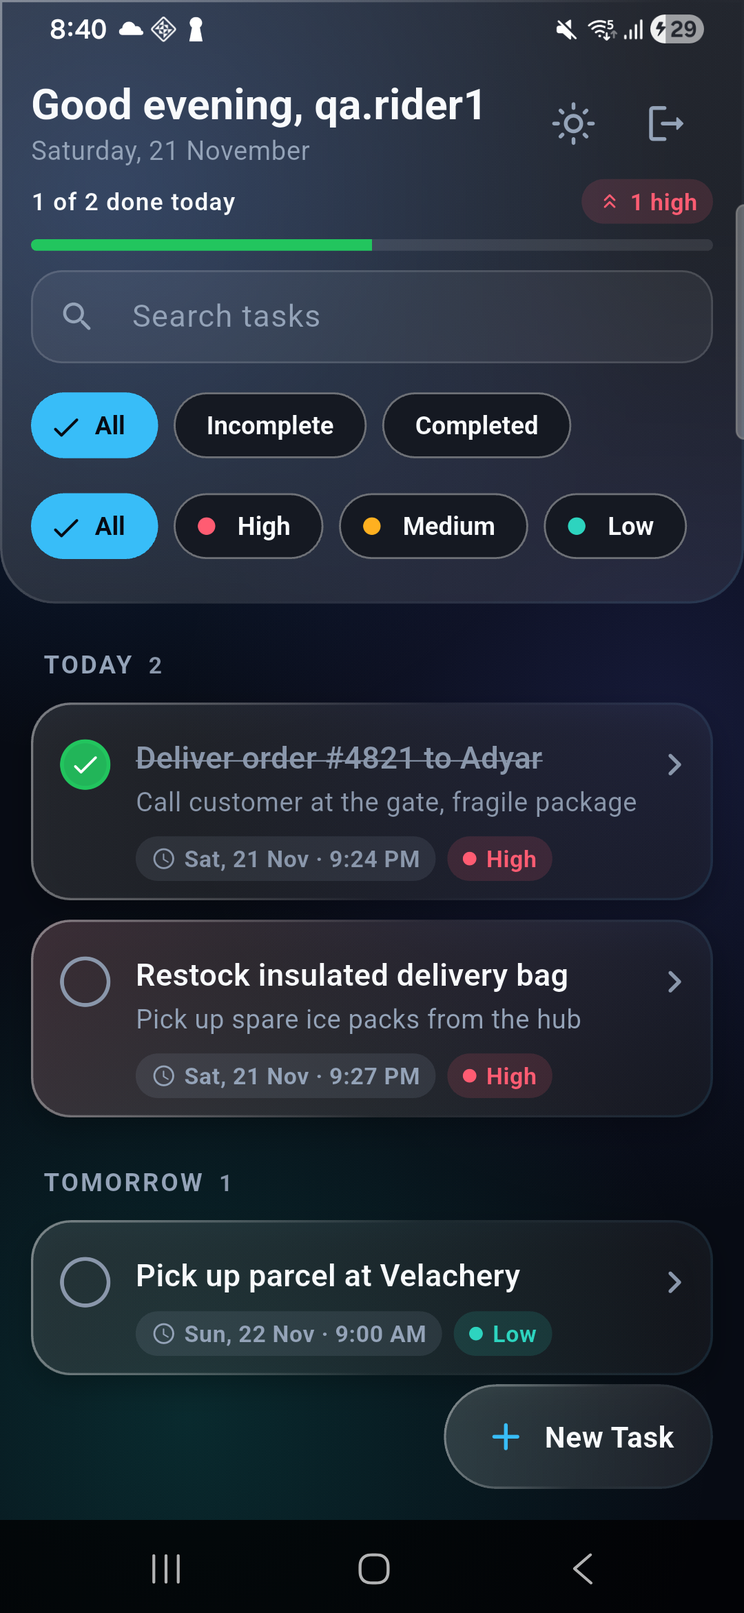
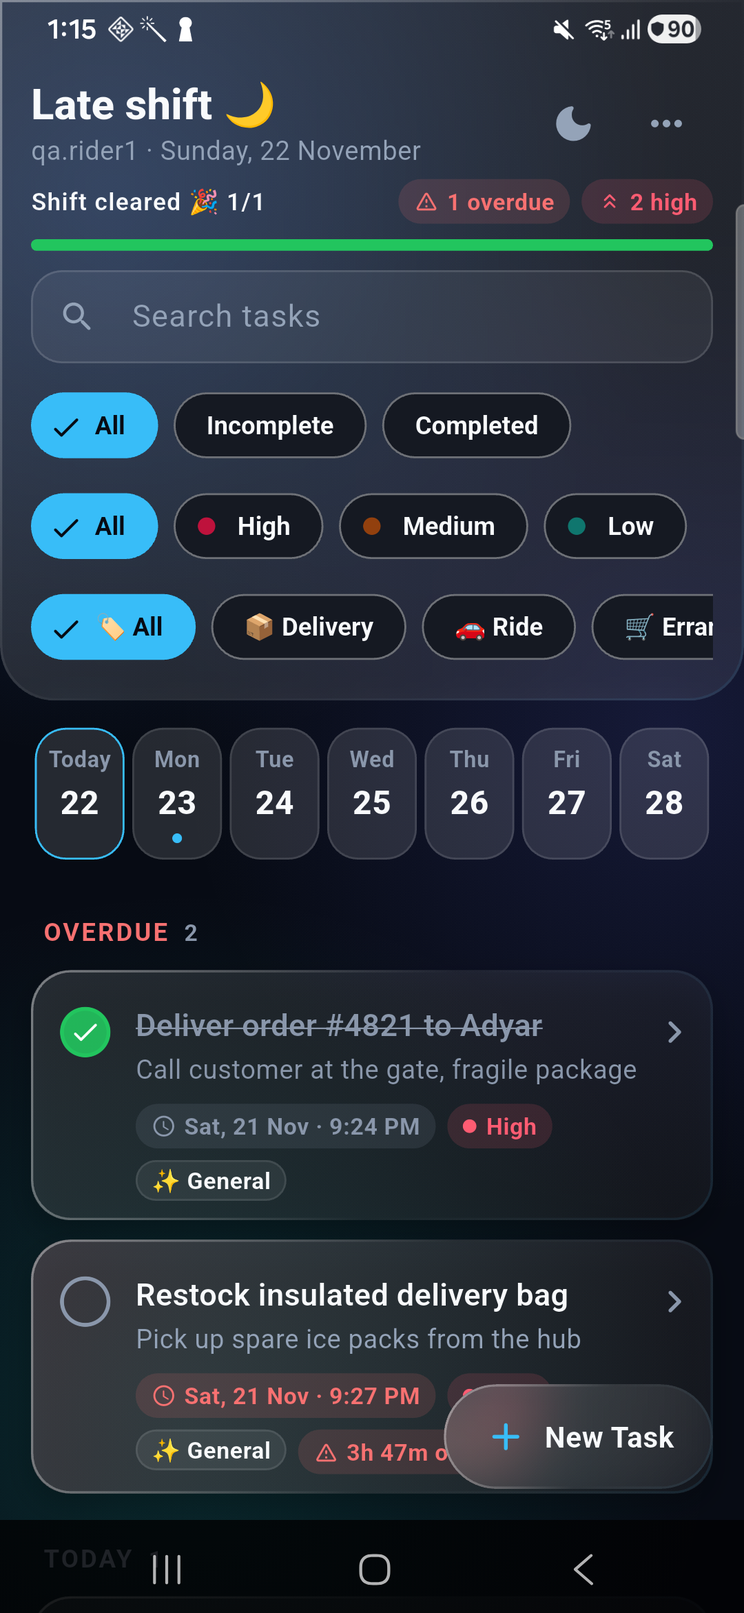
feat(auth): native Google sign-in; docs: v1.1.0 screenshots, README and release notes
- Google sign-in via google_sign_in (Credential Manager) + Firebase credential,
  replacing the browser redirect that fails under Chrome storage partitioning
- priority chip colours resolve in a theme-aware context (no stale colours)
- README and screenshots updated for v1.1.0 features and device QA

diff --git a/lib/features/auth/data/repositories/firebase_auth_repository.dart b/lib/features/auth/data/repositories/firebase_auth_repository.dart
@@ -1,11 +1,11 @@
 import 'package:firebase_auth/firebase_auth.dart';
 import 'package:flutter/foundation.dart' show debugPrint;
-import 'package:flutter/services.dart' show PlatformException;
-
+import 'package:gigflow/core/config/google_oauth.dart';
 import 'package:gigflow/core/error/failures.dart';
 import 'package:gigflow/core/error/firebase_error_mapper.dart';
 import 'package:gigflow/features/auth/domain/entities/app_user.dart';
 import 'package:gigflow/features/auth/domain/repositories/auth_repository.dart';
+import 'package:google_sign_in/google_sign_in.dart';
 
 class FirebaseAuthRepository implements AuthRepository {
   FirebaseAuthRepository(this._auth);
@@ -55,35 +55,60 @@ class FirebaseAuthRepository implements AuthRepository {
     }
   }
 
+  bool _googleReady = false;
+
+  /// Native Google sign-in (Android Credential Manager / iOS GIS) -> ID token
+  /// -> Firebase credential. Avoids the browser redirect flow, which breaks
+  /// under Chrome storage partitioning ("missing initial state").
   @override
   Future<AppUser?> signInWithGoogle() async {
     try {
-      final provider = GoogleAuthProvider()
-        ..addScope('email')
-        ..setCustomParameters({'prompt': 'select_account'});
-      return _toUser((await _auth.signInWithProvider(provider)).user);
+      final google = GoogleSignIn.instance;
+      if (!_googleReady) {
+        await google.initialize(
+          clientId: GoogleOAuth.platformClientId,
+          serverClientId: GoogleOAuth.webClientId,
+        );
+        _googleReady = true;
+      }
+      final account = await google.authenticate();
+      final idToken = account.authentication.idToken;
+      if (idToken == null) {
+        throw const AuthFailure(FirebaseErrorMapper.googleUnavailable);
+      }
+      final credential = GoogleAuthProvider.credential(idToken: idToken);
+      return _toUser((await _auth.signInWithCredential(credential)).user);
+    } on GoogleSignInException catch (e) {
+      debugPrint('GigFlow Google sign-in failed: ${e.code.name}');
+      if (e.code == GoogleSignInExceptionCode.canceled ||
+          e.code == GoogleSignInExceptionCode.interrupted) {
+        return null;
+      }
+      throw const AuthFailure(FirebaseErrorMapper.googleUnavailable);
     } on FirebaseAuthException catch (e) {
-      debugPrint('GigFlow Google sign-in failed: ${e.code}');
-      if (FirebaseErrorMapper.isUserCancellation(e.code)) return null;
+      debugPrint('GigFlow Google credential rejected: ${e.code}');
       throw AuthFailure(
         FirebaseErrorMapper.mapAuthErrorCode(e.code),
         code: e.code,
       );
-    } on PlatformException catch (e) {
-      debugPrint('GigFlow Google sign-in platform error: ${e.code}');
-      if (FirebaseErrorMapper.isUserCancellation(e.code)) return null;
-      throw AuthFailure(
-        FirebaseErrorMapper.mapAuthErrorCode(e.code),
-        code: e.code,
-      );
+    } on AuthFailure {
+      rethrow;
     } catch (e) {
       debugPrint('GigFlow Google sign-in unexpected error: ${e.runtimeType}');
-      throw const AuthFailure(FirebaseErrorMapper.genericAuth);
+      throw const AuthFailure(FirebaseErrorMapper.googleUnavailable);
     }
   }
 
   @override
-  Future<void> signOut() => _auth.signOut();
+  Future<void> signOut() async {
+    await _auth.signOut();
+    // Also forget the Google session so the account picker shows next time.
+    if (_googleReady) {
+      try {
+        await GoogleSignIn.instance.signOut();
+      } catch (_) {}
+    }
+  }
 
   Future<AppUser> _run(Future<UserCredential> Function() call) async {
     try {

diff --git a/lib/features/tasks/presentation/widgets/dashboard_header_delegate.dart b/lib/features/tasks/presentation/widgets/dashboard_header_delegate.dart
@@ -137,15 +137,20 @@ class DashboardHeaderDelegate extends SliverPersistentHeaderDelegate {
                       },
                     ),
                     for (final p in TaskPriority.values)
-                      SelectableChip(
+                      // Builder: resolve the colour in a context that
+                      // depends on Theme, so it updates when the theme
+                      // animates (delegate-level values would go stale).
+                      Builder(
                         key: ValueKey('priority-${p.name}'),
-                        label: p.label,
-                        dotColor: p.colorOf(context),
-                        selected: filter.priority == p,
-                        onSelected: () {
-                          HapticFeedback.selectionClick();
-                          onPriority(p);
-                        },
+                        builder: (context) => SelectableChip(
+                          label: p.label,
+                          dotColor: p.colorOf(context),
+                          selected: filter.priority == p,
+                          onSelected: () {
+                            HapticFeedback.selectionClick();
+                            onPriority(p);
+                          },
+                        ),
                       ),
                   ],
                 ),

diff --git a/lib/core/config/google_oauth.dart b/lib/core/config/google_oauth.dart
@@ -1,0 +1,18 @@
+import 'package:flutter/foundation.dart';
+
+/// Public OAuth client identifiers from the Firebase config files
+/// (android/app/google-services.json, ios/Runner/GoogleService-Info.plist).
+/// These are not secrets; access is enforced by Firebase.
+abstract final class GoogleOAuth {
+  /// "Web client" (type 3): required by Android Credential Manager to mint
+  /// an ID token that Firebase Auth accepts.
+  static const webClientId =
+      '595724452129-bpso55g5l7rcpl0t96o60brlri927vj1.apps.googleusercontent.com';
+
+  /// iOS client (type 2).
+  static const iosClientId =
+      '595724452129-l3ds198uauk1ese6i4r8pb2h108a3uab.apps.googleusercontent.com';
+
+  static String? get platformClientId =>
+      defaultTargetPlatform == TargetPlatform.iOS ? iosClientId : null;
+}

diff --git a/lib/core/error/firebase_error_mapper.dart b/lib/core/error/firebase_error_mapper.dart
@@ -1,5 +1,7 @@
 abstract final class FirebaseErrorMapper {
   static const genericAuth = 'Authentication failed. Please try again.';
+  static const googleUnavailable =
+      "Google sign-in couldn't finish. Check your connection or use email and password.";
   static const badCredentials =
       'Incorrect email or password. Please check your credentials and try again.';
 

diff --git a/README.md b/README.md
@@ -1,38 +1,51 @@
 # GigFlow — Task Management for Gig Workers
 
-An offline-first Flutter task manager for delivery riders, rideshare drivers and shift freelancers. Built for the **Whatbytes Flutter Developer Intern** assignment with Firebase Authentication, Cloud Firestore (with local offline persistence), strict earliest-to-latest due-date sorting, priority + status filtering, and a performance-engineered **Liquid Glass** UI.
+An offline-first Flutter task manager for delivery riders, rideshare drivers and shift freelancers. Built for the **Whatbytes Flutter Developer Intern** assignment with Firebase Authentication (email/password + Google), Cloud Firestore with local offline persistence, strict earliest-to-latest due-date sorting, priority/status/category filtering, and a performance-engineered **Liquid Glass** UI.
 
-- **Android Release APK:** see the [GitHub Releases](../../releases) page (`gigflow-v1.0.0-universal.apk`)
-- **Walkthrough video:** _add link here_
+- **Android APK:** [GitHub Releases](../../releases/latest) → `gigflow-v1.1.0-universal.apk`
+- **Walkthrough video:** _optional, add link here_
 
-## Screenshots (release build, Samsung Galaxy SM-E346B, Android 16)
+## Screenshots (release build on a Samsung Galaxy SM-E346B, Android 16)
 
-| Login | Dashboard (dark) | Priority filter | Create / edit task | Dashboard (light) |
+| Onboarding | Login | Dashboard | Lavender theme |
+| :---: | :---: | :---: | :---: |
+| <img src="docs/screenshots/onboarding.png" width="190"> | <img src="docs/screenshots/login.png" width="190"> | <img src="docs/screenshots/dashboard.png" width="190"> | <img src="docs/screenshots/dashboard_lavender.png" width="190"> |
+
+| Create / edit task | Week strip + day filter | Category filter | Shift cleared 🎉 | Profile |
 | :---: | :---: | :---: | :---: | :---: |
-| <img src="docs/screenshots/login.png" width="180"> | <img src="docs/screenshots/dashboard.png" width="180"> | <img src="docs/screenshots/filters.png" width="180"> | <img src="docs/screenshots/editor.png" width="180"> | <img src="docs/screenshots/dashboard_light.png" width="180"> |
+| <img src="docs/screenshots/editor.png" width="150"> | <img src="docs/screenshots/week_strip.png" width="150"> | <img src="docs/screenshots/filters.png" width="150"> | <img src="docs/screenshots/celebration.png" width="150"> | <img src="docs/screenshots/profile.png" width="150"> |
 
 ---
 
 ## Features
 
-| Area | What you get |
+### Assignment requirements
+| Requirement | How GigFlow does it |
 |---|---|
-| **Auth** | Email/password register & login, persistent session (auto-login on relaunch), logout with confirmation, clear human-readable errors for every Firebase code (`invalid-credential`, `wrong-password`, `user-not-found`, `email-already-in-use`, `weak-password`, `invalid-email`, `too-many-requests`, `network-request-failed`, …), password visibility toggle, trimmed email, double-submit protection |
-| **Tasks** | Create, view, edit, delete (swipe or from editor) with 4-second **Undo**, one-tap complete/incomplete with haptics. Fields: `title`, `description`, `dueDate`, `priority` (low/medium/high), `isCompleted` |
-| **Offline** | Firestore disk persistence (`CACHE_SIZE_UNLIMITED`). Everything works in Airplane Mode and syncs automatically on reconnect; an **Offline / Syncing** indicator shows the real sync state |
-| **Filter & sort** | Priority (All/High/Medium/Low) × Status (All/Incomplete/Completed) × instant search; always sorted **earliest → latest** (ties: high priority first, then creation time). Grouped into OVERDUE/EARLIER, TODAY, TOMORROW, UPCOMING without ever breaking global order |
-| **Shift dashboard** | "X of Y done today" progress bar, overdue and open-high-priority counters, overdue badges per task |
-| **Quick due presets** | `+1 hr`, `Today 6 PM`, `Tomorrow 9 AM`, or a custom date/time (Cupertino picker on iOS, Material on Android) |
-| **UI** | Material 3, Dark "Obsidian Glass" and Light "Daylight Frost" themes (persisted), WCAG AA contrast, 48dp touch targets, safe areas, keyboard-safe sheets, responsive up to tablets (640px content column) |
+| **Register / login (Firebase email + password)** | Persistent session, logout with confirmation, password visibility toggle, trimmed email, double-submit protection |
+| **Error messages for invalid credentials** | Every Firebase code mapped to plain English (`invalid-credential`, `wrong-password`, `user-not-found`, `email-already-in-use`, `weak-password`, `too-many-requests`, `network-request-failed`, …) |
+| **Create, edit, delete, view tasks** | Bottom-sheet editor, swipe-left delete with 4-second **Undo**, tap to edit |
+| **Title, description, due date, priority** | Plus an emoji category; quick due presets (`+1 hr`, `Today 6 PM`, `Tomorrow 9 AM`, custom picker) |
+| **Stored on Firebase + local storage** | Cloud Firestore with unlimited offline cache; filters, theme and onboarding state persisted locally |
+| **Mark complete / incomplete** | One-tap checkbox or **swipe right**, with haptics |
+| **Filter by priority and status** | Plus category, a 7-day **week strip** day filter, and instant search |
+| **Sorted by due date (earliest → latest)** | Deterministic total order, grouped into OVERDUE · TODAY · TOMORROW · THIS WEEK · LATER without ever breaking that order |
+| **Clean, responsive Material UI on iOS & Android** | Material 3, safe areas, keyboard-safe sheets, 48dp touch targets, WCAG AA contrast in all three themes |
 
-## Reviewer quick install (Android)
+### Extras
+- **One-time onboarding** (3 slides) before login.
+- **Forgot password** sheet and a ✓ tick on valid emails.
+- **Continue with Google**: native account picker (Android Credential Manager) → Firebase.
+- **Relative due times** ("in 45m", "2h overdue") and a time-of-day greeting.
+- **Shift dashboard**: "X of Y done today" progress, overdue and open-high counters, **confetti + "Shift cleared 🎉"** when today's last task is done.
+- **Profile sheet** ("⋯"): stats, appearance picker, sign out.
+- **Three themes**: Obsidian (dark), Daylight (light), **Lavender**, all persisted.
+- **Offline indicator** ("Offline — changes are saved on this device" / "Syncing…").
 
-1. Download `gigflow-v1.0.0-universal.apk` from Releases.
-2. Open it on the phone (allow "Install unknown apps"), or install it over USB:
-   ```bash
-   adb install -r gigflow-v1.0.0-universal.apk
-   ```
-3. Register any email and password (at least 6 characters, with a letter and a number).
+## Reviewer quick install (Android 7.0+)
+
+1. Download `gigflow-v1.1.0-universal.apk` from [Releases](../../releases/latest) and open it on the phone (allow "Install unknown apps"), or run `adb install -r gigflow-v1.1.0-universal.apk`.
+2. Register with any email and a password of 6+ characters that includes a letter and a number, or tap **Continue with Google**.
 
 ## Architecture
 
@@ -40,30 +53,32 @@ Feature-first Clean Architecture with BLoC:
 
 ```text
 lib/
-├── app/          # MaterialApp.router, get_it DI, go_router auth guards, theme + ThemeCubit
-├── core/         # Error mapping, validators, connectivity/sync status, Liquid Glass widgets
+├── app/          # MaterialApp.router, get_it DI, go_router guards (onboarding → auth → tasks), themes
+├── core/         # Error mapping, validators, connectivity/sync status, OAuth config, glass widgets, confetti
 ├── dev/          # Demo data seeder (debug/profile builds only)
 └── features/
-    ├── auth/     # domain (AppUser, AuthRepository) → data (FirebaseAuth) → presentation (AuthBloc, screens)
-    └── tasks/    # domain (TaskEntity, TaskQueryEngine, DateGrouping, ShiftStats, presets)
+    ├── auth/     # domain (AppUser, AuthRepository) → data (FirebaseAuth + Google) → presentation (AuthBloc, onboarding/login/register)
+    └── tasks/    # domain (TaskEntity, TaskCategory, TaskQueryEngine, DateGrouping, ShiftStats, RelativeDue, presets)
                   # → data (TaskModel mapper, FirestoreTaskRepository, prefs)
-                  # → presentation (TaskBloc, TaskFilterCubit, dashboard, editor sheet)
+                  # → presentation (TaskBloc, TaskFilterCubit, dashboard, editor, week strip, profile)
 ```
 
 ### Key engineering decisions
 
-1. **Zero-lag Liquid Glass (2-tier rendering).** A real `BackdropFilter` blur is used only on chrome (the pinned header/filter dock, the floating "New Task" pill, the editor sheet and the auth card). That means **at most 2 live blurs while scrolling**. Every scrolling task card is a zero-blur "specular" card: a translucent gradient plus a custom-painted 1.2px refractive rim, with no clip, no `Opacity` and no `saveLayer`. A widget test enforces that no `BackdropFilter` ever appears inside a task tile.
-2. **Offline-first writes.** Firestore applies writes to the local cache immediately (latency compensation), but the returned future only completes on *server* acknowledgement. The UI therefore **never awaits writes**, so nothing hangs in Airplane Mode. Server rejections are surfaced as SnackBars. Timestamps are client-generated (never `serverTimestamp()`), so there are no null-timestamp crashes on pending local snapshots.
-3. **Deterministic sort + monotonic grouping.** `TaskQueryEngine` is a pure-Dart total order (`dueDate → priority → createdAt → id`). Sections are bucketed purely by time thresholds, so flattening the sections always equals the sorted list. A property test over 200 random tasks checks this.
-4. **Filtering in memory.** Firestore runs a single `orderBy('dueDate')` query (no composite indexes). Priority, status and search filters run locally, which makes them instant and lets them work offline.
-5. **Auth-driven routing.** `go_router` redirects are driven by `AuthBloc` status changes only (a distinct `(status, uid)` stream), and the router is created once and disposed by DI. `TaskBloc` is scoped to the `/tasks` route, so signing out closes its Firestore listener and no data leaks between accounts.
-6. **Tenant-isolated security rules.** `users/{uid}/tasks/{taskId}` is readable and writable only by its owner, with schema validation (`firestore.rules`).
+1. **Zero-lag Liquid Glass (2-tier rendering).** A real `BackdropFilter` blur is used only on chrome (the pinned header/filter dock, the "New Task" pill, sheets and the auth card), so there are at most 2 live blurs while scrolling. Task cards are zero-blur "specular" cards: a gradient plus a custom-painted rim, with no clip, no `Opacity` and no `saveLayer`. A widget test enforces "no blur inside a task tile".
+2. **Offline-first writes.** Firestore updates the local cache immediately; the UI never awaits server acknowledgement, so nothing hangs in Airplane Mode. Server rejections surface as SnackBars. Timestamps are client-generated, so there are no null `serverTimestamp()` crashes.
+3. **Deterministic sort + monotonic grouping.** A pure-Dart total order (`dueDate → priority → createdAt → id`). Sections are bucketed purely by time, so flattening them equals the sorted list (checked by a 200-task property test).
+4. **In-memory filtering.** Firestore runs a single `orderBy('dueDate')` query (no composite indexes). Priority, status, category, day and search filters run locally, so they're instant and work offline.
+5. **Auth-driven routing.** `go_router` redirects react only to `(status, uid)` changes. `TaskBloc` is scoped to the `/tasks` route, so signing out closes the Firestore listener and nothing leaks between accounts.
+6. **Native Google sign-in.** Native Google sign-in on Android avoids the browser-redirect flow, which breaks under Chrome storage partitioning ("missing initial state").
+7. **Theme-safe styling.** Chip colours are resolved inside theme-dependent contexts, so nothing goes stale during the animated theme switch (a bug found and fixed on a real device).
+8. **Secure, backward-compatible rules.** `users/{uid}/tasks/{taskId}` is owner-only with schema validation; the new `category` field is optional, so v1.0 clients keep working.
 
 ## Tech stack
 
-Flutter 3.47.5 (Dart 3.13) · `flutter_bloc` 9 + `bloc_concurrency` · `equatable` 3 · `firebase_core` 5 / `firebase_auth` 7 / `cloud_firestore` 7 · `go_router` 18 · `get_it` 9 · `shared_preferences` 2.5 (`SharedPreferencesWithCache`) · `connectivity_plus` 7 · `intl` · tests: `flutter_test`, `bloc_test` 10, `mocktail`.
+Flutter 3.47.5 (Dart 3.13) · `flutter_bloc` 9 + `bloc_concurrency` · `equatable` 3 · `firebase_core` 5 / `firebase_auth` 7 / `cloud_firestore` 7 · `google_sign_in` 7 · `go_router` 18 · `get_it` 9 · `shared_preferences` 2.5 · `connectivity_plus` 7 · `intl` · tests: `flutter_test`, `bloc_test` 10, `mocktail`.
 
-Android: minSdk 24, target/compile SDK 36, R8 minify + resource shrinking enabled. iOS: deployment target 15.0.
+Android: minSdk 24, target/compile SDK 36, R8 + resource shrinking, release-signed. iOS: deployment target 15.0.
 
 ## Run locally
 
@@ -74,57 +89,46 @@ flutter test
 flutter run
 ```
 
-The repo ships with the Firebase client config for the demo project (`lib/firebase_options.dart`, `google-services.json`, `GoogleService-Info.plist`). These are public identifiers; access is enforced by `firestore.rules`.
+The repo ships the Firebase client config for the demo project (`lib/firebase_options.dart`, `google-services.json`, `GoogleService-Info.plist`). These are public identifiers; access is enforced by `firestore.rules`.
 
-### Use your own Firebase project
-
-1. Create a Firebase project, enable **Authentication → Email/Password**, and create a **Firestore** database.
-2. Run `flutterfire configure --platforms=android,ios`.
-3. Run `firebase deploy --only firestore:rules`.
-
-## Verified on a real device
-
-The **release APK** (R8-minified) was exercised end-to-end on a Samsung Galaxy SM-E346B (Android 16) against the live Firebase project:
-
-| Scenario | Result |
-|---|---|
-| Cold start → login screen; empty-form and bad-email validation | ✅ |
-| Wrong credentials → "Incorrect email or password…" (Firebase `invalid-credential`) | ✅ |
-| Register → auto-redirect to dashboard; kill & relaunch stays signed in | ✅ |
-| Create tasks with presets/priorities → instant, sorted earliest → latest, grouped TODAY/TOMORROW | ✅ |
-| Toggle complete → strike-through, shift progress bar + high-priority counter update | ✅ |
-| Filters: Completed / Incomplete + High (empty state + Clear) / search "airport" | ✅ |
-| Swipe delete → Undo restores in place; SnackBar auto-hides after 4 s | ✅ |
-| **Airplane Mode:** create + edit offline (no spinner), "Offline" indicator, kill & relaunch offline → data intact | ✅ |
-| Reconnect → syncs; **wipe app data + fresh login → all offline edits come back from Firestore** | ✅ |
-| Dark ↔ light theme (persisted), logout confirmation, no error flash after sign-out | ✅ |
-
-Issues found during this pass and fixed (each now covered by a regression test):
-- a stale login error carried over to the register screen
-- keyboard "Next" focused the password-visibility icon
-- the editor's Save button sat under the Android 15+ edge-to-edge navigation bar
-- light-mode chip labels were lost after the animated theme switch
-- a preset chip lost its highlight after a minute
+Release signing reads `android/key.properties` (gitignored). Without it, release builds fall back to the debug key, and Google sign-in then needs that key's SHA-1 registered in Firebase.
 
 ## Tests
 
-84 automated tests:
+**95 automated tests** (unit, BLoC, widget):
 
 | Suite | Covers |
 |---|---|
-| `firebase_error_mapper_test` | Every auth error code + fallback |
-| `validators_test` | Email, login/new/confirm password, task fields |
-| `task_query_engine_test` | Earliest→latest, priority/createdAt/id tie-breaks, each filter, combined filters, search, immutability |
-| `date_grouping_test` | Monotonic sections, boundaries, labels, 200-task property test |
-| `shift_and_presets_test` | Today window, overdue counts, preset availability & rollover |
+| `firebase_error_mapper_test`, `validators_test` | Every auth error code, all form validators |
+| `task_query_engine_test`, `new_features_test` | Sorting and tie-breaks, priority/status/category/day filters, search, relative due labels, greetings, category model round-trip and legacy docs |
+| `date_grouping_test`, `shift_and_presets_test` | Monotonic sections incl. This week/Later, boundaries, shift stats, celebration trigger, presets |
 | `task_model_test` | Firestore round-trip, pending (null) timestamps, malformed data |
-| `auth_bloc_test` | Stream mapping, submit states, failure, double-submit dropped, logout |
-| `task_bloc_test` | Create/update/toggle/delete/undo, optimistic hide, pruning, stream & write errors |
-| `task_filter_cubit_test` | Persistence + reset |
-| `login_screen_test` / `register_screen_test` | Validation, error banner, stale-error clearing, keyboard focus order, visibility toggle, disabled CTA, a11y guidelines |
-| `dashboard_test` | **Blur budget** (no blur in tiles, ≤ 2 total), section order, empty states, offline pill, toggle, light-theme chip legibility |
+| `auth_bloc_test`, `task_bloc_test`, `task_filter_cubit_test` | Auth flows + double-submit, CRUD/undo/pending-delete/errors, persisted filters and day toggling |
+| `login_screen_test`, `register_screen_test` | Validation, banners, stale-error clearing, keyboard focus order, a11y guidelines |
+| `dashboard_test` | Blur budget, section order, empty states, offline pill, light-theme legibility |
+
+## Verified on a real device
+
+The release APK was tested end-to-end on a Samsung Galaxy SM-E346B (Android 16) against the live Firebase project:
+- onboarding
+- email login/register and error messages
+- Google sign-in
+- create/edit/delete/undo
+- swipe to complete and the confetti celebration
+- priority, status, category, day and search filters
+- the Airplane Mode round-trip: offline edits survived an app restart, then came back from the server after wiping local data
+- all three themes
+- profile sheet and logout
+
+Issues found on the device were fixed, each with a regression test where practical:
+- Save button under the Android 15+ navigation bar
+- light-mode chip contrast after a theme switch
+- keyboard "Next" focusing the eye icon
+- stale login error on the register screen
+- Google browser-redirect failure
+- a narrow-screen Google button overflow
 
 ## Known limitations
 
-- iOS is code-complete and statically verified, but not device-tested (built on Windows, no macOS available).
+- iOS is code-complete and statically checked, but not device-tested (no macOS build host).
 - Long-press the greeting in a debug/profile build to seed 60 demo tasks for profiling.

diff --git a/docs/RELEASE_NOTES_v1.1.0.md b/docs/RELEASE_NOTES_v1.1.0.md
@@ -1,0 +1,30 @@
+# GigFlow v1.1.0
+
+A big UX update on top of v1.0.0, inspired by the reference designs and tested end-to-end on a real Android 16 phone.
+
+## Install (Android 7.0+ / API 24+)
+- **`gigflow-v1.1.0-universal.apk`**: works on every device. Recommended.
+- `gigflow-v1.1.0-arm64-v8a.apk` / `gigflow-v1.1.0-armeabi-v7a.apk`: smaller, per-architecture builds.
+
+This release is signed with GigFlow's permanent release key. If you installed v1.0.0 (debug-signed), uninstall it first. Your tasks are safe in the cloud.
+
+## New
+- **Onboarding**: 3 quick slides on first launch.
+- **Continue with Google**: native account picker, straight into your tasks.
+- **Forgot password**: a reset link by email, and a ✓ tick on valid emails.
+- **Emoji categories**: 📦 Delivery · 🚗 Ride · 🛒 Errand · 💼 Work · 🏠 Personal · ✨ General, with a filter row.
+- **Week strip**: tap a day to see only that day's tasks.
+- **Smarter timeline**: THIS WEEK / LATER sections, plus "in 45m" and "2h overdue" labels.
+- **Swipe right to complete** (swipe left still deletes, with Undo).
+- **Shift cleared 🎉**: confetti when today's last task is done.
+- **Profile sheet** ("⋯"): stats, appearance and sign out.
+- **Lavender theme**, alongside Obsidian (dark) and Daylight (light).
+- A greeting that matches the time of day, and friendlier empty states.
+
+## Fixed
+- Filter chips stay legible after switching themes.
+- Clear messages when Google sign-in is attempted offline.
+
+## Quality
+- 95 automated tests; `flutter analyze --fatal-infos` is clean.
+- Firestore rules are backward-compatible, so v1.0.0 clients keep working.
